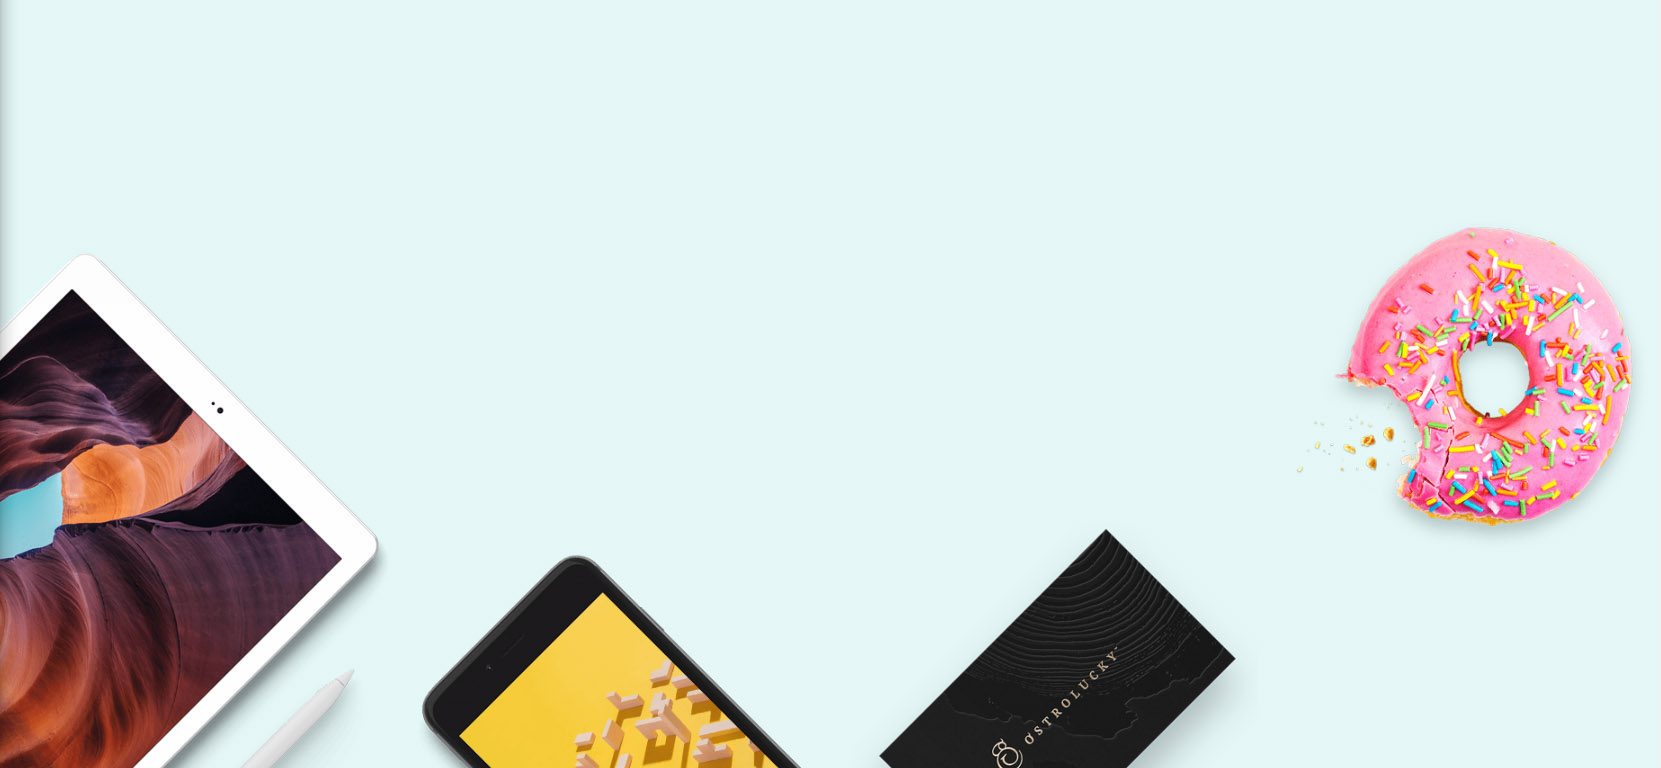
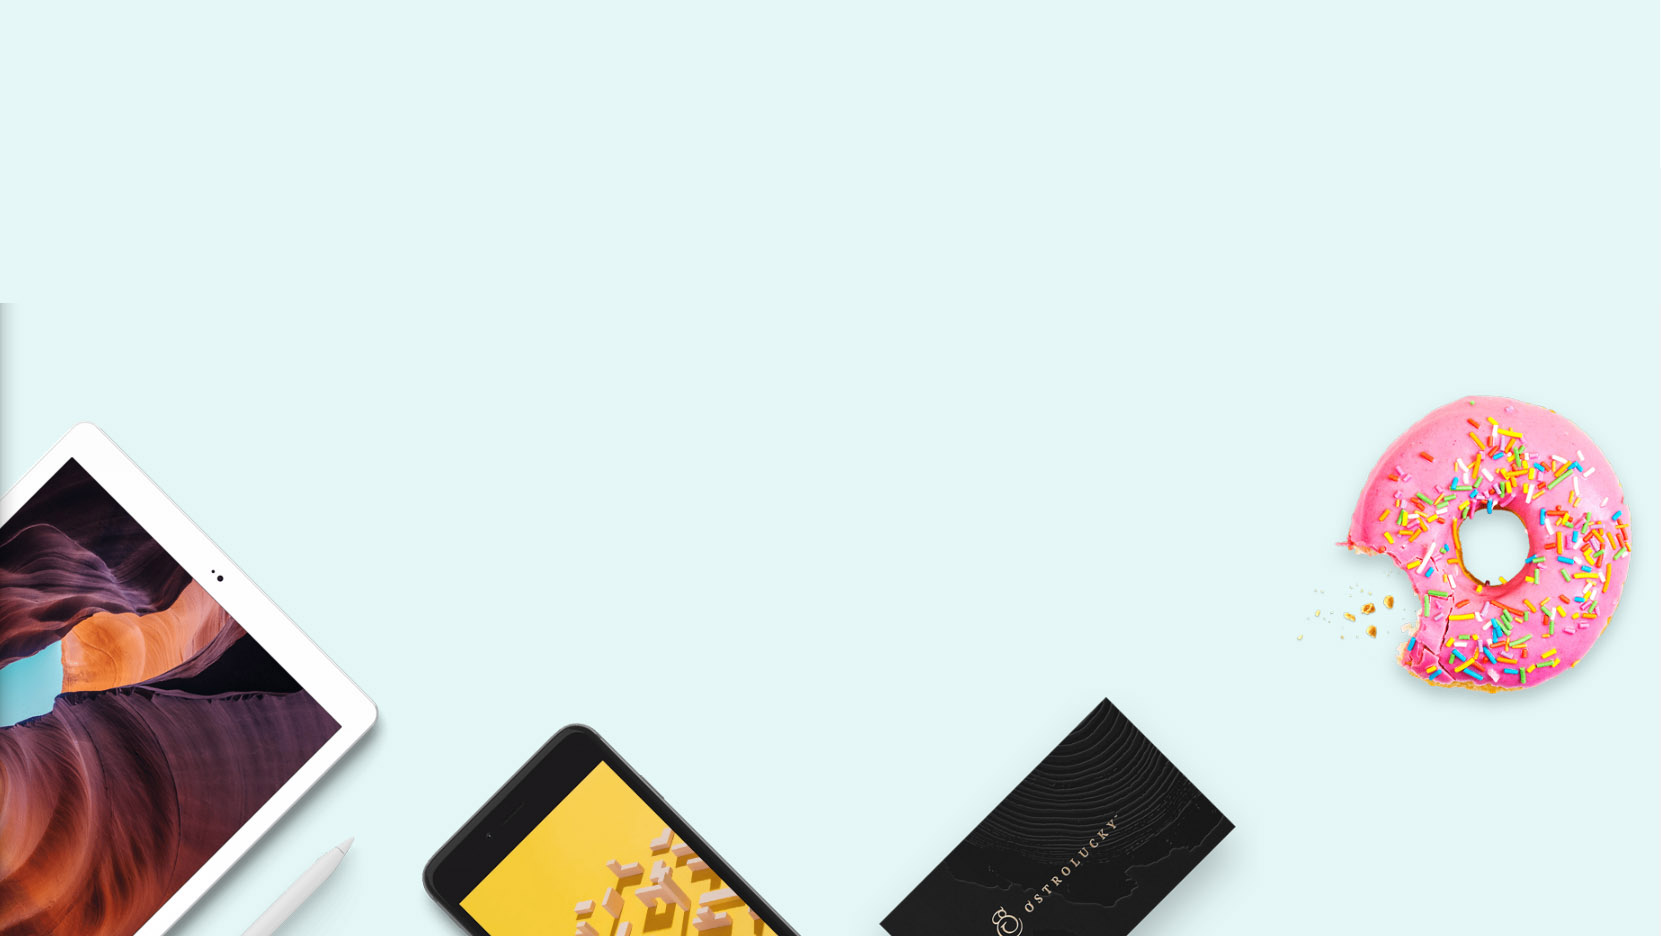
Finished the Blue Section of the webpage
Used columns to float left for creating the desktop width layout .

diff --git a/index.html b/index.html
@@ -183,15 +183,18 @@
         <!--starting the section with multiple nav bars!-->
         
        <section class="blue-section">
-           <nav class="col-1">
+           <nav class="col-1 blue">
            <h2>Oh, Yes.</h2>
            <p>Creative treats that tickle our taste buds</p>
-           <a href="https://www.art4web.co/services"> Discover our services</a>
+           <a href="https://www.art4web.co/services" class="discover"> Discover our services</a>
                </nav><!--ending col-1!-->
            
-            <nav class="col-2">
+            <nav class="col-2 blue">
            <a href="https://www.art4web.co/services/digital-experiences">
+               
+               <img src="img/thumb1.jpg" alt="Phone, tablet and Computer screen icon">
                 <h4>Digital Experiences</h4>
+               
                 <ul>
                     <li>Responsive Websites</li>
                     <li>Mobile and Desktop Apps Design </li>
@@ -200,8 +203,9 @@
                 </a>
            </nav>
                 
-            <nav class="col-3">
+            <nav class="col-3 blue">
            <a href="https://www.art4web.co/services/branding">
+               <img src="img/thumb2.jpg" alt="Branding icon">
                 <h4>Branding</h4>
                 <ul>
                     <li>Visual Identity Design</li>
@@ -211,12 +215,13 @@
                 </a>
            </nav>
                     
-            <nav class="col-4">
+            <nav class="col-4 blue">
              <a href="https://www.art4web.co/services/content">
+                 <img src="img/thumb3.jpg" alt="Phone, tablet and Computer screen icon">
                 <h4>Content</h4>
                 <ul>
                     <li>Animations and Video</li>
-                    <li>Photos an dIllustrations </li>
+                    <li>Photos and Illustrations </li>
                    <li>Copywriting</li>
                    </ul>
                 </a>

diff --git a/css/main.css b/css/main.css
@@ -352,13 +352,60 @@ h3 {
 .blue-section{
     background-image:url(../img/things-bk.jpg);
     background-repeat:no-repeat;
-    height:650px;
+    height:700px;
     padding:0;
     margin:0;
     background-size:100% auto;
 }
 
+.blue{
+    width:200px;
+    float:left;
+     margin-top:130px;
+    
+}
+ul { 
+    list-style-position: inside; 
+    padding-left: 0;
+    list-style:none;
+}
 
+.col-1{
+   
+    margin-left:130px;
+    margin-right:50px;
+    width:180px;
+}
+
+.col-3{
+    padding-left:20px;
+}
+
+.discover{
+    color:skyblue;
+    border-bottom: 1px solid skyblue;
+    padding-bottom: 1em;
+    text-decoration:none;
+}
+
+.blue-section li{
+    color:#1799B5;
+    text-decoration:none;
+    font-size:.75em;
+    font-family:'Tinos', serif;
+    line-height:2.25em;
+}
+
+.blue-section h4{
+    color:#111111;
+    font-family:'Roboto', sans-serif;
+    font-size:1.25em;
+}
+
+.blue-section p{
+    color:#1799B5;
+
+}
 
 /*End of Projects Section*/
 
